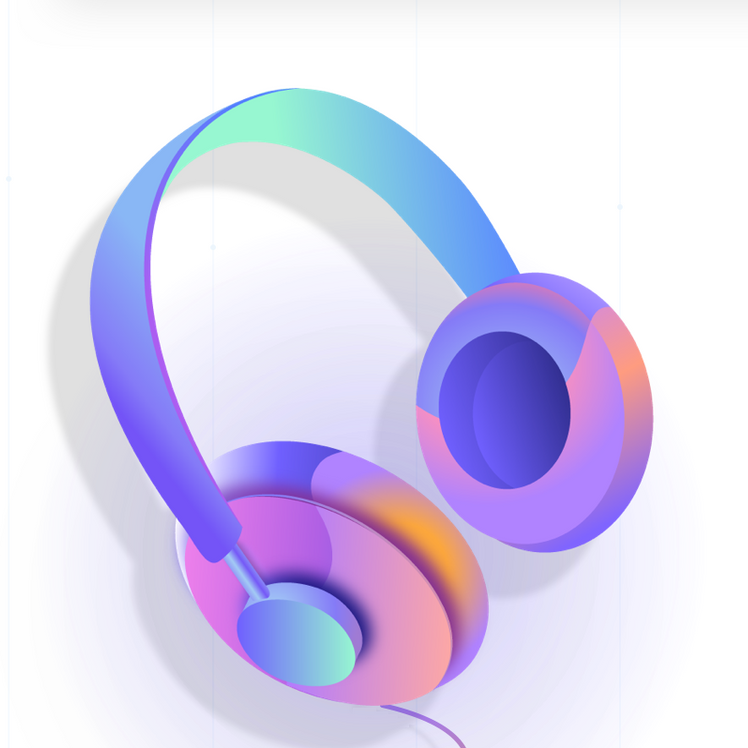
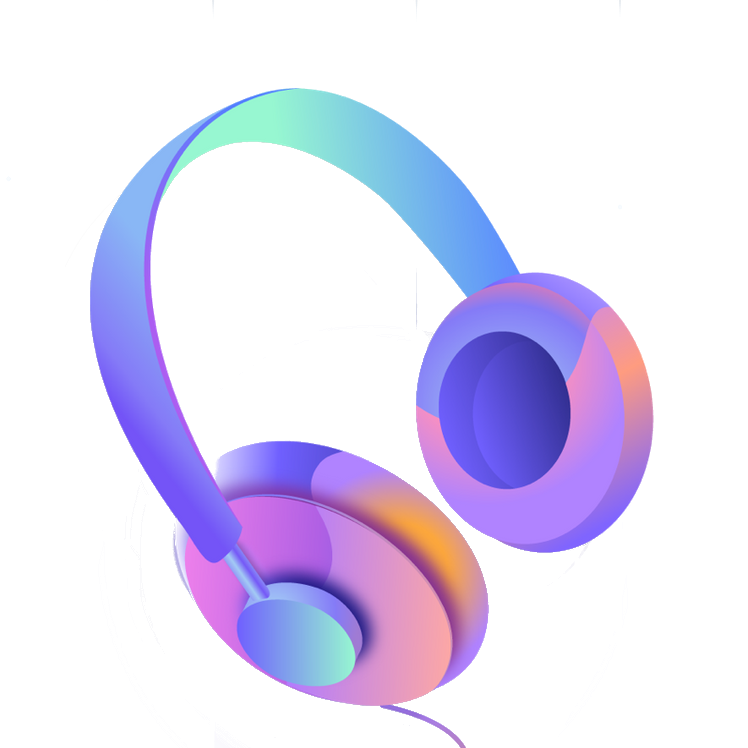
finished the color-collection section

Changed region(s): [[0.0615, 0.1845, 0.7995, 1.0]]

diff --git a/index.html b/index.html
@@ -40,7 +40,10 @@
                     <p class="lead bold primary-color mxl-3">Premium, truly wireless on-ear earphones</p>
                     <p class="compliment white-color mxl-3">you simple won't want to take them off. 
                     And widthup to 30 hours of playtime won't have to</p>
-                    <input class="pull-left px-1 mxl-4" type="text" placeholder="Write your email"/>
+                    <div class="mxl-3 mix">
+                        <input class="input" type="text" placeholder="Write your email"/>
+                        <a href="#" id="submit" class="btn btn-primary">Submit</a>
+                    </div>
                 </div><!--end of hero text-->
                 <div class="hero-img">
                     <img src="./resources/img/headphonest.png" alt="promotional headphones picture"/>
@@ -79,5 +82,59 @@
                 </div><!--end of white-box-->
             </div><!--end of container-->
         </section><!--end of promo-design-->
+
+        <section class="color-collection">
+            <div class="container">
+                <div class="hero-img">
+                    <img src="./resources/img/headphones2.png" alt="headphones picture">
+                </div><!--end of color-collection-img-->
+                <div class="hero-text">
+                    <div class="color-circles">
+                        <div class="circle round-img"></div>
+                        <div class="circle round-img"></div>
+                        <div class="circle round-img"></div>
+                    </div><!--end of color-circles-->
+                    <h2 class="compliment secondary-color">THE</h2>
+                    <h2 class="compliment primary-color bold">COLOR</h2>
+                    <h2 class="compliment support-color-a">COLLECTION</h2>
+                    <p class="gray-color m-2">Let the World in one quick gesture</p>
+                    <h3 class="primary-color bold underline">EXPLORE</h3>
+                </div><!--end of hero-text-->
+            </div><!--end of container-->
+        </section><!--end of color-collection-->
+
+        <section class="purple-section">
+            <div class="container">
+                <div class="hero-img">
+                        <img src="./resources/img/copped-blue-print.png" alt="headphones picture">
+                </div><!--end of hero-img-->
+                <div class="hero-text">
+                    <div class="captions">
+                        <h1 class="bold">Streamlined,</h1>
+                        <h1 class="bold">on-ear wearing</h1>
+                        <h1 class="bold">style</h1>
+                    </div><!--end of captions-->
+                    <div class="features">
+                        <div class="feature-element">
+                            <i class="fab fa-bluetooth fa-8x"></i>
+                            <div class="px-3">
+                                <h2 class="bold">Bluetooth</h2>
+                                <p class="py-1">Bluetooth 4.2 . AAC codec</p>
+                                <a href="#" class="bold">LEARN MORE</a>
+                            </div>
+                        </div><!--end of feature-element-->
+                        <div class="feature-element">
+                            <i class="fas fa-microphone-alt fa-8x"></i>
+                            <div class="mxl-4">
+                                <h2 class="bold">Microphone</h2>
+                                <p class="py-1">Supports Apple Siri and Google</p>
+                                <p class="myb-1">Now with voice commands.</p>
+                                <a href="#" class="bold">LEARN MORE</a>
+                            </div>
+                        </div><!--end of feature-element-->
+                    </div><!--end of features-->
+                </div><!--end of hero-text-->
+            </div><!--end of container-->
+        </section><!--end of purple-section-->
     </body>
 </html>

diff --git a/resources/css/style.css b/resources/css/style.css
@@ -4,8 +4,9 @@
     --support-color-A: #D87EE7;
     --support-color-B: #ADCCD9;
     --support-color-C: #E8C7DC;
+    --support-primary-color: #4F46CA;
     --white-color: #fff;
-    --gray-color: #9097A5;
+    --gray-color: rgb(60, 61, 63);
 }
 /*************************** Global *******************************/
 
@@ -21,9 +22,15 @@ html{
 }
 
 .compliment{
-    font-size: 1.85rem;
+    font-size: 2.5rem;
     line-height: 1;
-    padding: 1rem;
+    padding: 0.5rem;
+}
+
+.small{
+    font-size: 1.5rem;
+    line-height: 1;
+    padding: 0.5rem;
 }
 
 .bold{
@@ -185,6 +192,25 @@ html{
     text-decoration: none;
 }
 
+.mix{
+    position: relative;
+}
+
+.input{
+    font-size: 1rem;
+    padding: 0.8rem 2.2rem;
+    width: 100%;
+    -webkit-border-radius: 160px;
+    -moz-border-radius: 160px;
+    border-radius: 160px;
+}
+
+#submit{
+    position: absolute;
+    right: 2%;
+    top: 10%;
+}
+
 .btn-primary{
     color: var(--white-color);
     background-color: var(--primary-color);
@@ -207,6 +233,10 @@ html{
 
 .secondary-color{
     color: var(--secondary-color);
+}
+
+.support-color-a{
+    color: var(--support-color-A);
 }
 
 .white-color{
@@ -284,7 +314,7 @@ nav a{
     display: flex;
     flex-direction: column;
     justify-content: center;
-    align-items: center;
+    align-items: flex-start;
 }
 
 .hero-img{
@@ -355,6 +385,98 @@ nav a{
 
 .device{
     grid-area: device;
+}
+
+/***************************** color-collection *********************************/
+.color-collection{
+    display: flex;
+}
+
+.color-collection .container{
+    display: flex;
+}
+
+.color-collection .hero-text{
+    width: 100%;
+    align-items: center;
+}
+
+.color-circles{
+    display: flex;
+    width: 50%;
+    justify-content: space-around;
+    padding: 0.5rem;
+}
+
+.circle{
+    background: #a59ef7; /* Old browsers */
+    background: -moz-linear-gradient(-45deg, #a59ef7 0%, #f0aff7 22%, #f0aff7 22%, #689dc9 40%, #dd9c73 63%, #9897e5 75%, #e5a589 100%); /* FF3.6-15 */
+    background: -webkit-linear-gradient(-45deg, #a59ef7 0%,#f0aff7 22%,#f0aff7 22%,#689dc9 40%,#dd9c73 63%,#9897e5 75%,#e5a589 100%); /* Chrome10-25,Safari5.1-6 */
+    background: linear-gradient(135deg, #a59ef7 0%,#f0aff7 22%,#f0aff7 22%,#689dc9 40%,#dd9c73 63%,#9897e5 75%,#e5a589 100%); /* W3C, IE10+, FF16+, Chrome26+, Opera12+, Safari7+ */
+    width: 5.5rem;
+    height: 5.5rem;
+    padding: 1rem;
+}
+
+.underline{
+    padding: 0.5rem;
+    border-bottom: 2px solid var(--primary-color);
+}
+
+/***************************** purple-section *********************************/
+.purple-section{
+    display: flex;
+    background-color: var(--support-primary-color);
+    color: var(--white-color);
+}
+
+.purple-section .container{
+    display: flex;
+}
+
+.purple-section .hero-img{
+    padding: 1rem;
+    margin: auto auto;
+}
+
+.purple-section .hero-text{
+    width: 100%;
+    align-items: center;
+    justify-content: center;
+}
+
+.captions{
+    width: 100%;
+    font-size: 3.5rem;
+    line-height: 1;
+    margin-bottom: 3rem;
+    justify-content: center;
+    align-items: center;
+}
+
+.features{
+    width: 100%;
+    display: flex;
+    flex-direction: column;
+    align-items: center;
+    justify-content: center;
+}
+
+.feature-element{
+    display: flex;
+    justify-content: flex-start;
+    align-items: center;
+    padding: 1rem 0;
+
+}
+
+.feature-element a{
+    text-decoration: none;
+    color: var(--secondary-color);
+}
+
+.feature-element h2{
+    font-size: 1.5rem;
 }
 
 
